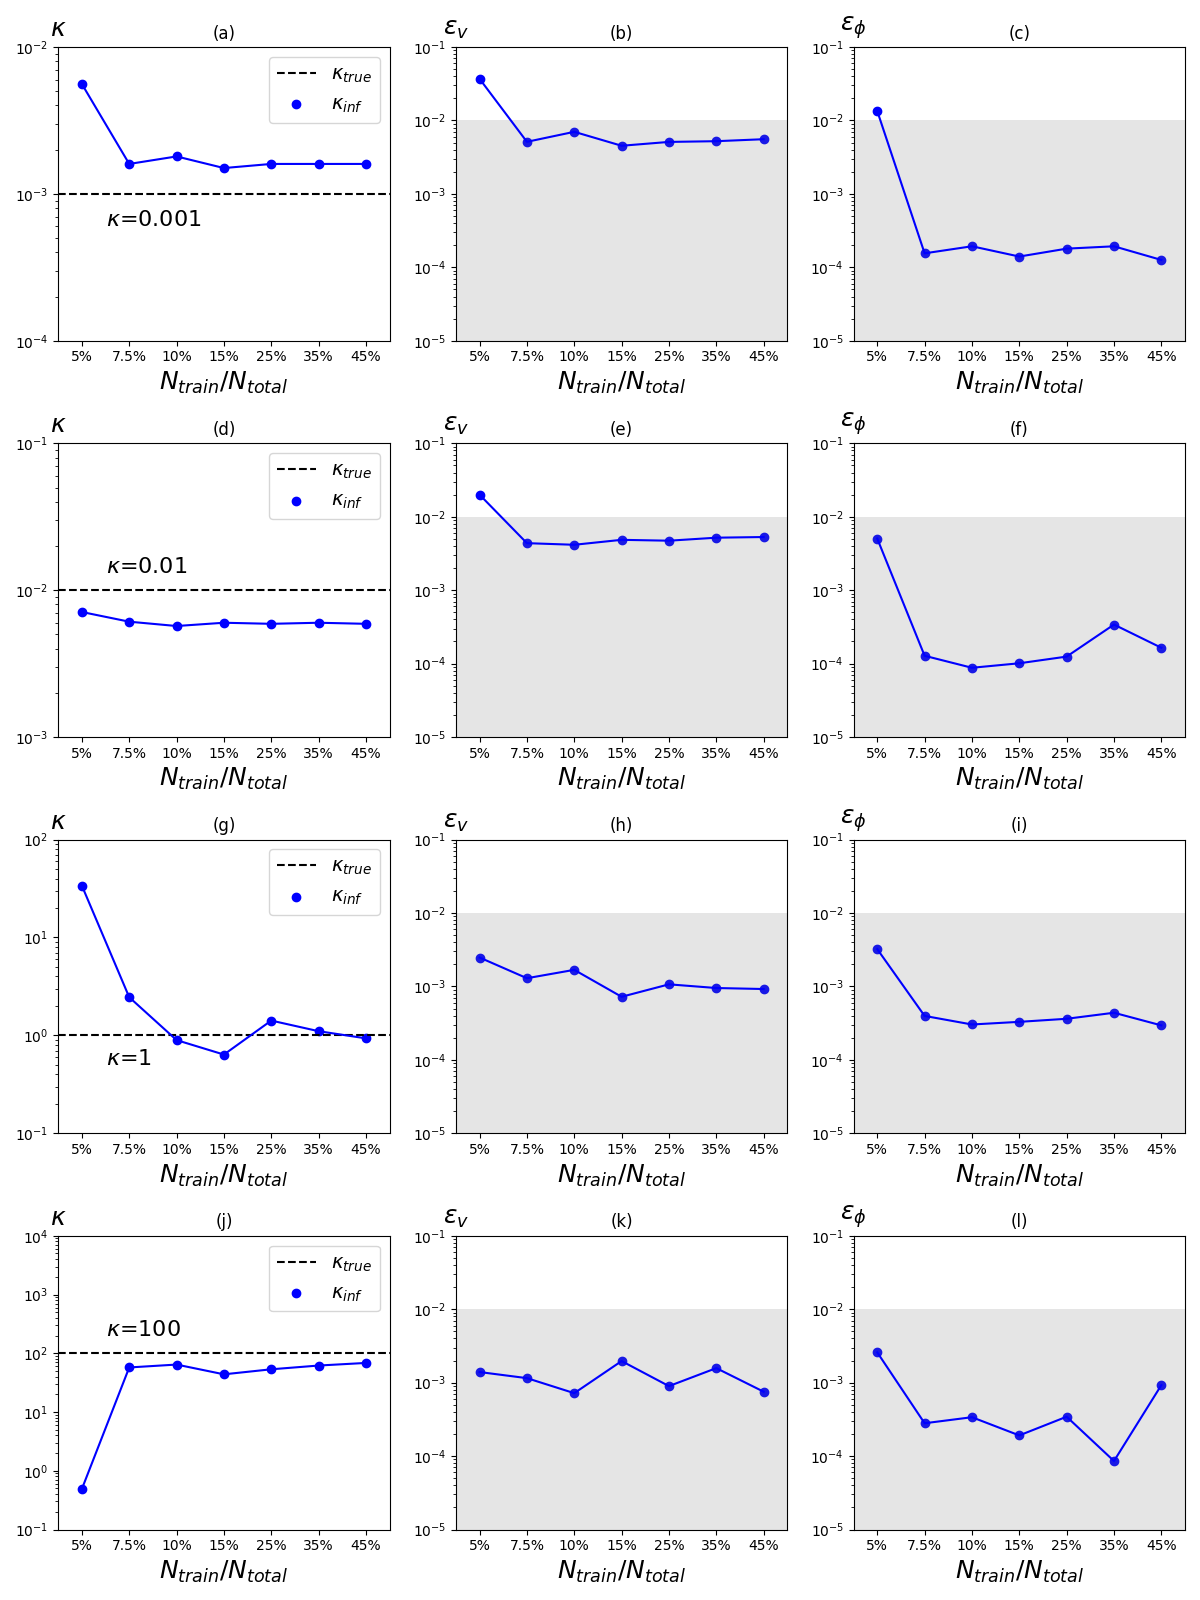
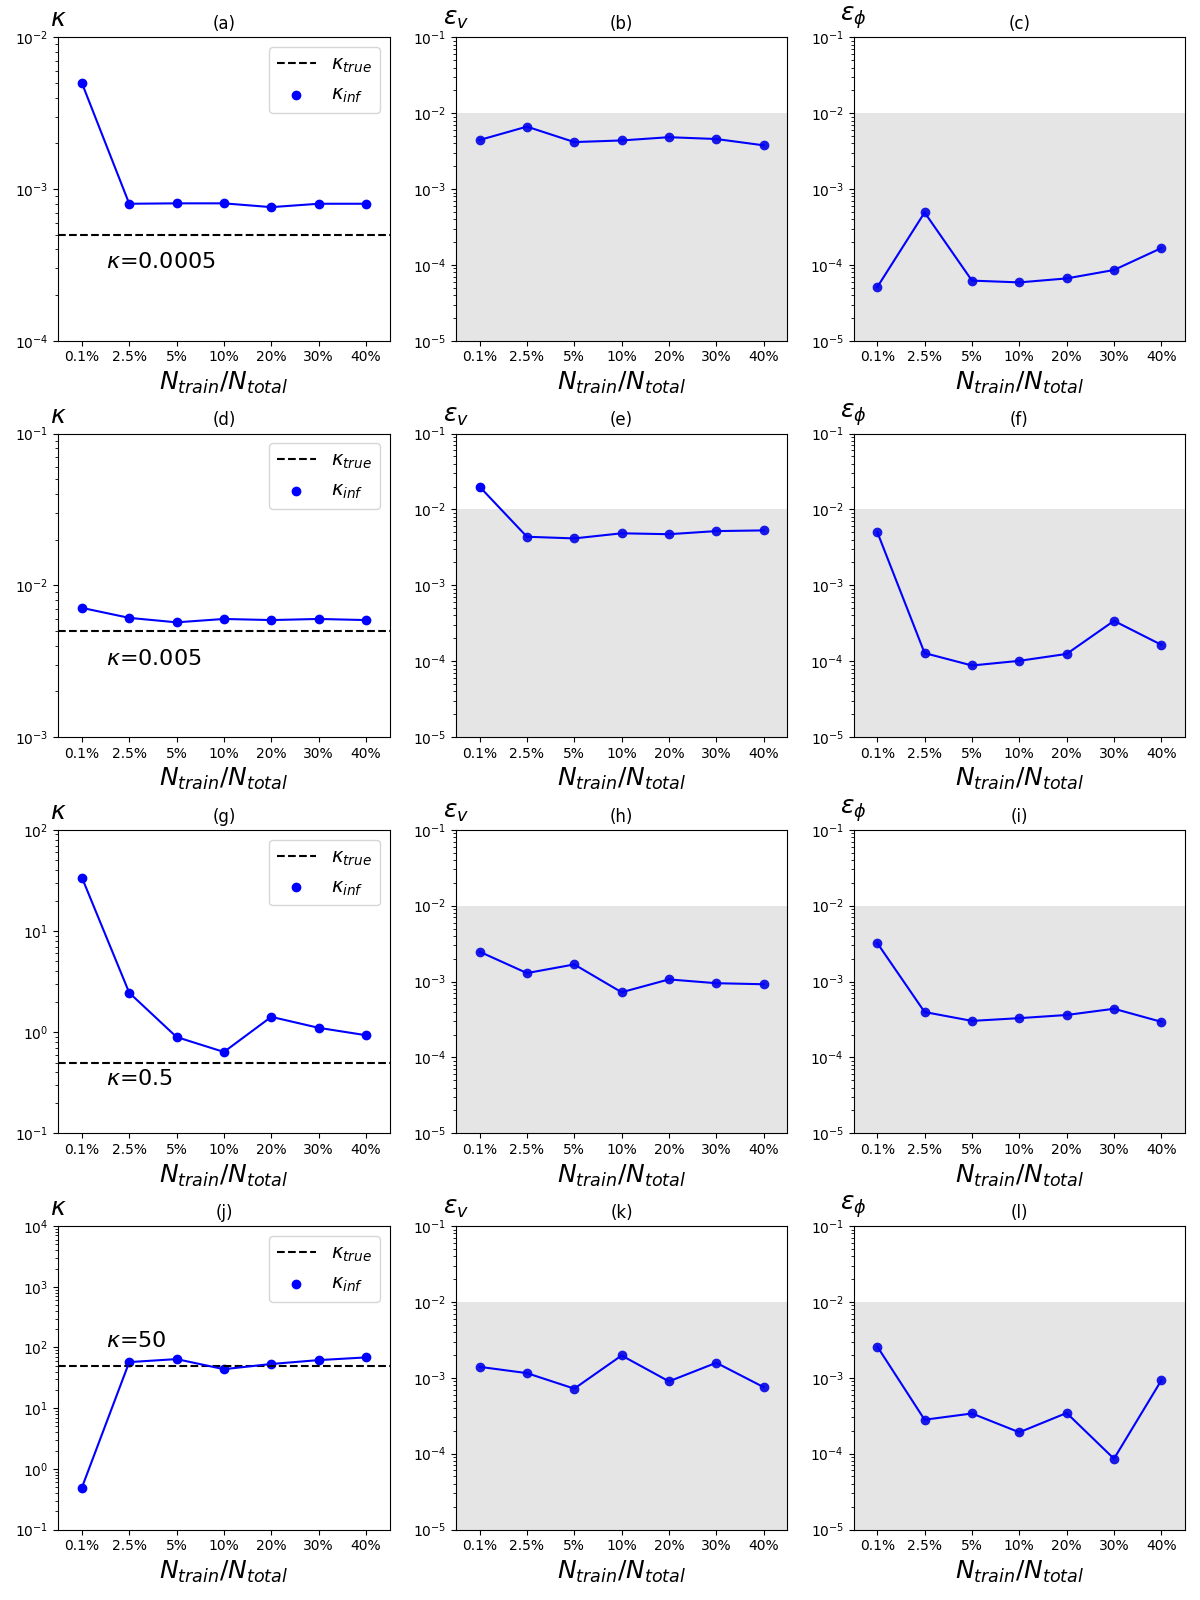
.

diff --git a/Thrombus/Plot/K_num/fig_5.py b/Thrombus/Plot/K_num/fig_5.py
@@ -11,13 +11,16 @@ def main():
     y = np.arange(0, 9)
     num_data = 4
     ### inferred K
-    num_pt = ['5%', '7.5%', '10%', '15%', '25%', '35%', '45%']
+    num_pt = ['0.1%', '2.5%', '5%', '10%', '20%', '30%', '40%']
 
     ## K = 0.001
-    K0001_inf = [0.0056, 0.0016, 0.0018, 0.0015, 0.0016, 0.0016, 0.0016] 
-    K0001_err_v = [0.03692339637250551, 0.005122691087586185, 0.007008171686910214, 0.00452708413850194, 0.005106505064399686, 0.0052239411916606485, 0.005559307109883266]
-    K0001_err_phi = [0.013432807731299406, 0.00015518189842251366, 0.00019363300715335963, 0.00014029456982833175, 0.00017971960099100957, 0.00019347685395596873, 0.00012616948045365877]
-  
+    # K0001_inf = [0.0056, 0.0016, 0.0018, 0.0015, 0.0016, 0.0016, 0.0016] 
+    # K0001_err_v = [0.03692339637250551, 0.005122691087586185, 0.007008171686910214, 0.00452708413850194, 0.005106505064399686, 0.0052239411916606485, 0.005559307109883266]
+    # K0001_err_phi = [0.013432807731299406, 0.00015518189842251366, 0.00019363300715335963, 0.00014029456982833175, 0.00017971960099100957, 0.00019347685395596873, 0.00012616948045365877]
+    K0001_inf = [0.005, 0.0008, 0.000805, 0.000805, 0.00076, 0.0008, 0.0008]
+    K0001_err_v = [0.004431276424893243, 0.006651601016591628, 0.004162255897910429, 0.004371984565019348, 0.004826646820475884, 0.004566431695002859, 0.0037709769270081817]
+    K0001_err_phi = [5.0999814245247376e-05, 0.0004911467780966902, 6.209044728430996e-05, 5.882942454197718e-05, 6.633957471641322e-05, 8.57278546715761e-05, 0.00016659397468669549]
+
     ## K = 0.01
     K001_inf = [0.0071, 0.0061, 0.0057,0.0060, 0.0059, 0.0060, 0.0059] 
     K001_err_v = [0.019956355343961698, 0.004366403222419709, 0.004150289836349184,0.004847596176752074 , 0.004716459209682021,0.0051841116386620355 ,0.005292324602118571]
@@ -57,7 +60,7 @@ def main():
     ax12 = fig.add_subplot(gs3[2])
 
     ## ax1: K
-    ax1.axhline(y=0.001, linestyle='--', color='black',  label='$\kappa_{true}$')
+    ax1.axhline(y=0.0005, linestyle='--', color='black',  label='$\kappa_{true}$')
     ax1.plot(x, K0001_inf, color='blue')
     ax1.scatter(x, K0001_inf, color='blue', label='$\kappa_{inf}$')
     ax1.set_xlabel('$N_{train}/N_{total}$', fontsize=18)
@@ -72,7 +75,7 @@ def main():
     # ax1.set_aspect('auto')
     ax1.yaxis.set_label_coords(0.0,1.02)
     ax1.legend(fontsize=14)
-    ax1.text(1.5, 0.0006, "$\kappa$=0.001", fontsize=16)
+    ax1.text(1.5, 0.0003, "$\kappa$=0.0005", fontsize=16)
     # ax1.fill_between(y, 0.0005, 0.0015, facecolor='gray', alpha=0.2)
 
     # ## ax2
@@ -108,7 +111,7 @@ def main():
     # ax3.legend()
     
     ## K = 0.01
-    ax4.axhline(y=0.01, linestyle='--', color='black',  label='$\kappa_{true}$')
+    ax4.axhline(y=0.005, linestyle='--', color='black',  label='$\kappa_{true}$')
     ax4.plot(x, K001_inf, color='blue')
     ax4.scatter(x, K001_inf, color='blue', label='$\kappa_{inf}$')
     ax4.set_xlabel('$N_{train}/N_{total}$', fontsize=18)
@@ -123,7 +126,7 @@ def main():
     # ax1.set_aspect('auto')
     ax4.yaxis.set_label_coords(0.0,1.02)
     ax4.legend(fontsize=14)
-    ax4.text(1.5, 0.013, "$\kappa$=0.01", fontsize=16)
+    ax4.text(1.5, 0.003, "$\kappa$=0.005", fontsize=16)
 
     # ## ax5
     ax5.plot(x, K001_err_v, color='blue')
@@ -159,7 +162,7 @@ def main():
 
     ## K = 1
     ##ax7
-    ax7.axhline(y=1, linestyle='--', color='black',  label='$\kappa_{true}$')
+    ax7.axhline(y=0.5, linestyle='--', color='black',  label='$\kappa_{true}$')
     ax7.plot(x, K1_inf, color='blue')
     ax7.scatter(x, K1_inf, color='blue', label='$\kappa_{inf}$')
     ax7.set_xlabel('$N_{train}/N_{total}$', fontsize=18)
@@ -174,7 +177,7 @@ def main():
     # ax1.set_aspect('auto')
     ax7.yaxis.set_label_coords(0.0,1.02)
     ax7.legend(fontsize=14)
-    ax7.text(1.5, 0.5, "$\kappa$=1", fontsize=16)
+    ax7.text(1.5, 0.3, "$\kappa$=0.5", fontsize=16)
 
     # ## ax8
     ax8.plot(x, K1_err_v, color='blue')
@@ -210,7 +213,7 @@ def main():
 
     ## K = 100
     ##ax7
-    ax10.axhline(y=100, linestyle='--', color='black',  label='$\kappa_{true}$')
+    ax10.axhline(y=50, linestyle='--', color='black',  label='$\kappa_{true}$')
     ax10.plot(x, K100_inf, color='blue')
     ax10.scatter(x, K100_inf, color='blue', label='$\kappa_{inf}$')
     ax10.set_xlabel('$N_{train}/N_{total}$', fontsize=18)
@@ -225,7 +228,7 @@ def main():
     # ax1.set_aspect('auto')
     ax10.yaxis.set_label_coords(0.0,1.02)
     ax10.legend(fontsize=14)
-    ax10.text(1.5, 200, "$\kappa$=100", fontsize=16)
+    ax10.text(1.5, 100, "$\kappa$=50", fontsize=16)
 
     # ## ax8
     ax11.plot(x, K100_err_v, color='blue')

diff --git a/Thrombus/Plot/K_num/get_error.py b/Thrombus/Plot/K_num/get_error.py
@@ -98,8 +98,8 @@ def main():
     y_data = np.zeros((4, file_end-file_start, num_x1, num_x2))
     t_step = 0
     for file_id in range(file_start, file_end):
-        name_u = '../../../Data/CH/phase_field_xiaoning/K_001/dat/half' + str(file_id) + '.dat'
-        name_phi = '../../../Data/CH/phase_field_xiaoning/K_001/dat_phase/halfp' + str(file_id) + '.dat'
+        name_u = '../../../Data/CH/phase_field_xiaoning/K_0001/dat/half' + str(file_id) + '.dat'
+        name_phi = '../../../Data/CH/phase_field_xiaoning/K_0001/dat_phase/halfp' + str(file_id) + '.dat'
         data_u = np.loadtxt(name_u)
         data_phi = np.loadtxt(name_phi)
 
@@ -123,14 +123,21 @@ def main():
     optimizer = torch.optim.Adam(model.parameters(), lr = 0.001)
 
     ## loading model/optimizer state
+    # model_path = ['../../Inv_K_num/test_1/CheckPts/model_chkpts.pt', 
+    # '../../Inv_K_num/test_2/CheckPts/model_chkpts.pt',
+    # '../../Inv_K_num/test_3/CheckPts/model_chkpts.pt', 
+    # '../../Inv_K_num/test_4/CheckPts/model_chkpts.pt',
+    # '../../Inv_K_num/test_5/CheckPts/model_chkpts.pt', 
+    # '../../Inv_K_num/test_6/CheckPts/model_chkpts.pt',
+    # '../../Inv_K_num/test_7/CheckPts/model_chkpts.pt']
 
-    model_path = ['../../Inv_K_num/test_1/CheckPts/model_chkpts.pt', 
-    '../../Inv_K_num/test_2/CheckPts/model_chkpts.pt',
-    '../../Inv_K_num/test_3/CheckPts/model_chkpts.pt', 
-    '../../Inv_K_num/test_4/CheckPts/model_chkpts.pt',
-    '../../Inv_K_num/test_5/CheckPts/model_chkpts.pt', 
-    '../../Inv_K_num/test_6/CheckPts/model_chkpts.pt',
-    '../../Inv_K_num/test_7/CheckPts/model_chkpts.pt']
+    model_path = ['../../../Revision/K_num/test_31/CheckPts/model_chkpts.pt', 
+    '../../../Revision/K_num/test_32/CheckPts/model_chkpts.pt',
+    '../../../Revision/K_num/test_33/CheckPts/model_chkpts.pt', 
+    '../../../Revision/K_num/test_34/CheckPts/model_chkpts.pt',
+    '../../../Revision/K_num/test_35/CheckPts/model_chkpts.pt', 
+    '../../../Revision/K_num/test_36/CheckPts/model_chkpts.pt',
+    '../../../Revision/K_num/test_37/CheckPts/model_chkpts.pt']
 
     Predictions = np.zeros((7, 5, num_t, num_x1, num_x2))
     for k in range (0, 7):
